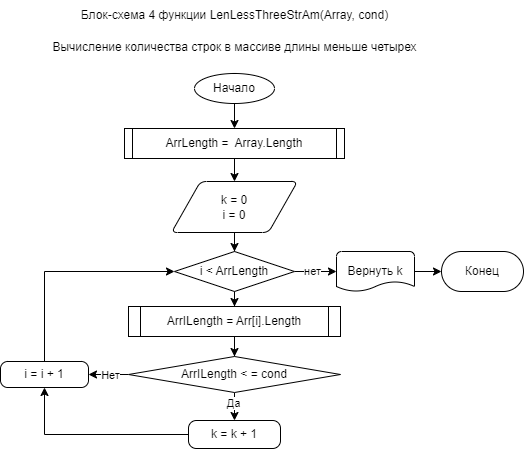
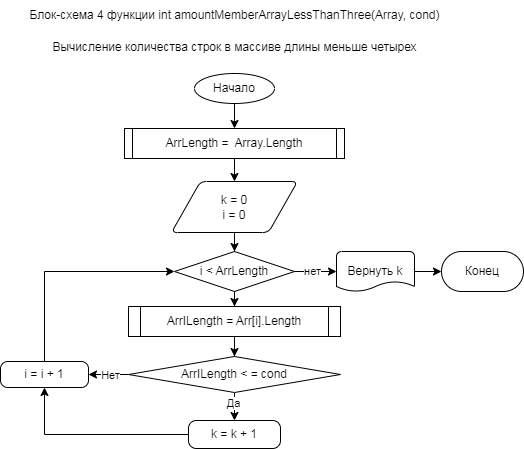
program were corrected1

diff --git a/Task1/Program.cs b/Task1/Program.cs
@@ -93,7 +93,7 @@ string[] arrayFiltred(string[] array, int cond, int k)
     }
 
     PrintArray(array); // Вывод искомого массива на печать
-    Console.WriteLine($"Строки массива, длина которых меньше черырех");
+    Console.WriteLine($"Вывод исходного массива, без строк длины > 3");
 
     PrintArray(arrayF); // Вывод искомого массива на печать
     Console.WriteLine($"Строки массива, длина которых меньше либо равна 3");

diff --git a/README.md b/README.md
@@ -1,22 +1,180 @@
 # Описание программы
-Программа представлена двумя блоками:
+## Программа представлена двумя блоками:
 1. Создается массив строк для анализа. Размер массива вводится с консоли. Минимальное и максимальное значение длины строки также вводится с консоли. Длина каждой строки определяется случайным образом с использованием генератора случайных чисел. Созданный массив строк выводится на консоль
 2. Методом перебора элементов массива строк определяются строки длины меньше 4 и записываются в новый массив. Новый массив выводится на консоль непосредственно под исследованным массивом.
 
-### Реализация Блока 1 осуществляется с использованием следующих функций
-1. Функция **anyNumberInput()** - Вводит строку с консоли (команда input()). Проверяет представлена ли вводимая строка числом. Осуществляет проверку, пока не будет введено корректное значение числа. Используется для введения с консоли как размера массива строк, так и минимального и максимального значения длин самих строк.
-2. Функция **inputArrayMaxStringSize()** - задает максимальное значение длины строки, и требует, чтобы вводимое с консоли число было не меньше минимального значения длины строк. Выход из функции осуществляется только после введения корректного значения максимальной длины строки. Данная функция использует вызов функции **anyNumberInput()** введения строки с консоли. 
-3. Функция **randomArrayBilding()** - Строит  массив строк заданного размера со случаной длиной строки в заданных пределах (для задания значений длины строки используется функция Random). Строки формируются из случайного набора символов множества символов строки **stringSource** = "1234567890qwertyuiop[]\asdfghjkl;'zxcvbnm,./!@#$%^&*()_+-=~`". Формирование массива строк непосредственно осуществляет функция **CreateDifferenceLengthStringArray(int arraySize**
-(= anyNumberInput())
-**, int minStringSize**
-(= anyNumberInput())
-**, int maxStringSize**
-(= inputArrayMaxStringSize())
-**, string stringSource)** в которую передаются параметры с консоли и из строки символов.
-4. На консоль выводиться созданный массив строк переменной длины
+## Функциональное описание программы:
+### `int AnyNumberInput()`: эта функция предлагает пользователю ввести натуральное число с консоли. Также она проверяет, представляет ли введенная строка число. Запрос повторяется до тех пор, пока не будет введено натуральное число.
+Разберем код шаг за шагом:
+1. `int AnyNumberInput()`: данная функция не принимает параметров и возвращает целое число.
 
-### Реализация Блока 2 осуществляется с использованием следующих функций
-1. Функция **amountMemberArrayLessThanThree(string[] array, int Criteria)** вычисляет количество строк в массиве array, длина которых меньше либо равна Criteria (Criteria < 4). Входные параметры: 1. array - анализируемый массив строк, 2. Criteria - значение, которое определяет какие строки будут отфильтрованы из первоначального массива (т.е. строки длины меньше либо равно Criteria)
-2. Функция **arrayFiltred(string[] array, int cond, int k)** создает пустой массив размерности, совпадающей с количеством строк k, длина которых меньше Criteria (Criteria < 4), и заполняет его этими строками. 
-Значение количества строк длины меньше Criteria (Criteria < 4) определяется функцией **amountMemberArrayLessThanThree()** (п.1) путем перебора в цикле элементов массива и определения их длины с последующим изменением значения счетчика количества элементов длины меньше Criteria.
-Для лучшей визуализации массив в котором заменены пропусками строки длины > Criteria выводится непосредственно под первоначальным. 
+2. ` while (true)`: инициирует бесконечный цикл, гарантируя, что функция будет продолжать запрашивать пользователя до тех пор, пока не будет предоставлен ввод натурального числа.
+
+3. Запрос на ввод данных пользователем:
+    - Внутри цикла функция выводит на консоль сообщение «Введите неотрицательное число» (Введите неотрицательное целое число), предлагая пользователю ввести число.
+
+4. Чтение пользовательского ввода:
+    - `string inputString = Console.ReadLine()!;`: эта строка считывает вводимые пользователем данные с консоли и сохраняет их в виде строки в переменной `inputString`. Оператор `!` используется для исключения значений NULL, поскольку `ReadLine()` может вернуть `NULL`, если достигнут конец входного потока.
+
+5. Проверка ввода:
+    - Функция перебирает каждый символ входной строки, используя цикл for (`for (int i = 0; i < inputString.Length; i++)`).
+
+    - Внутри цикла она проверяет каждый символ, чтобы убедиться, что он представляет цифру. Для выполнения этой проверки используются значения ASCII символов от 0 до 9.
+
+    - Если первый символ равен «0», это гарантирует, что это единственный символ в строке (что указывает на допустимый нулевой ввод).
+
+    - Если какой-либо символ не является цифрой (от «0» до «9») или если первый символ равен «0» и есть дополнительные символы, цикл прерывается, указывая на недопустимый ввод.
+
+    - Если цикл завершается без прерывания, то есть все символы являются допустимыми цифрами, он возвращает целочисленное представление входной строки с помощью Convert.ToInt32(inputString)`.
+
+6. Функция продолжает выполняться бесконечно, пока не будет предоставлен действительный вход.
+
+Таким образом, эта функция постоянно предлагает пользователю ввести неотрицательное целое число с консоли. Она проверяет ввод, чтобы гарантировать, что он состоит только из цифр, и возвращает целочисленное значение входной строки. Она выполняется бесконечно, пока не будет получен действительный ввод.
+
+### `string[] CreateDifferenceLengthStringArray(int arraySize, int minStringSize, int maxStringSize, string stringSource)`: эта функция генерирует массив строк заданного размера (`arraySize`), где каждая строка в массиве имеет случайную длину между ` minStringSize` и `maxStringSize`. Символы для построения этих строк взяты из строки stringSource.
+
+Эта функция генерирует случайный массив строк различной длины. Разберем код шаг за шагом:
+
+1. `string[] CreateDifferenceLengthStringArray(int arraySize, int minStringSize, int maxStringSize, string stringSource)`: эта функция принимает четыре параметра:
+    - `arraySize`: Желаемый размер создаваемого массива строк.
+    - `minStringSize`: минимальная длина каждой строки в массиве.
+     - `maxStringSize`: максимальная длина каждой строки в массиве.
+     - `stringSource`: строка, содержащая символы, из которых будут формироваться случайные строки.
+
+2. `string[] array = new string[arraySize];`: эта строка инициализирует новый массив строк с указанным размером `arraySize`.
+
+3. `Random rnd = new Random();`: здесь создается новый экземпляр класса `Random`. Этот экземпляр будет использоваться для генерации случайных чисел.
+
+4. `for (int i = 0; i < arraySize; i++)`: этот цикл перебирает каждый элемент массива строк.
+
+5. `int RandomStrinSize = Convert.ToInt32(rnd.Next(minStringSize, maxStringSize + 1));`: внутри цикла генерируется случайное целое значение между `minStringSize` и `maxStringSize  используя метод Next класса Random. Это случайное значение представляет длину строки, которая будет сгенерирована для текущего элемента массива.
+
+6. `for (int j = 0; j < RandomStrinSize; j++)`: внутри внешнего цикла инициируется другой цикл для генерации символов для строки.
+
+7. `int indexStringSource = Convert.ToInt32(rnd.Next(0, stringSource.Length));`: внутри внутреннего цикла генерируется случайный индекс для выбора символа из `stringSource`. Метод Next генерирует случайное целое число от 0 до длины stringSource -1.
+
+8. `array[i] += stringSource[indexStringSource];`: эта строка добавляет случайно выбранный символ из `stringSource` к текущей строке в массиве.
+
+9. После завершения выполнения обоих циклов для всех элементов массива функция возвращает результирующий строковый массив.
+
+Эта функция по существу создает массив строк, где каждая строка имеет случайную длину в пределах указанного диапазона (от minStringSize до maxStringSize) и создается путем случайного выбора символов из stringSource.
+
+## `void PrintArray(string[] array)`: эта функция выводит содержимое массива строк на консоль.
+
+### `int summberArrayLessThanThree(string[] array, int Criteria)`: данная функция вычисляет количество строк в заданном массиве, длина которых меньше или равна указанному критерию ("Criteria"). Она перебирает элементы массива и просчитывает соответствующие строки.
+Разберем код шаг за шагом:
+
+1. `int summberArrayLessThanThree(string[] array, int Criteria)`: эта функция принимает два параметра:
+ - `array`: массив строк.
+ - `Criteria`: целое число, представляющее максимально допустимую длину строки в массиве.
+
+2. `int k = 0;`: инициализирует переменную `k` нулем. `k` будет использоваться для подсчета количества строк в массиве, соответствующих критерию.
+
+3. `for (int i = 0; i < array.Length; i++)`: этот цикл перебирает каждый элемент входного массива `array`.
+
+4. `if (array[i].Length <= Criteria)`: внутри цикла проверяется, является ли длина текущей строки (`array[i].Length`) меньше или равна указанному `Criteria `.
+
+5. `k = k + 1;`: если длина текущей строки соответствует критериям, счетчик `k` увеличивается на единицу.
+
+6. После прохода по всем элементам массива функция возвращает конечное значение `k`, которое представляет собой количество строк в массиве, удовлетворяющих условию длины.
+
+Таким образом, эта функция обеспечивает простой способ определить количество строк в массиве, длина которых меньше или равна заданному критерию. Он перебирает каждую строку в массиве, проверяет ее длину и увеличивает счетчик, если длина соответствует указанным критериям. Наконец, она возвращает количество подходящих строк.
+
+### `string[] arrayFiltred(string[] array, int cond, int k)`: эта функция фильтрует входной массив на основе условия (`cond`) по длине строки. Он создает новый массив, содержащий только строки, соответствующие условию. Он также заменяет строки, не соответствующие условию, пробелами в исходном массиве. Затем он выводит на консоль исходный и отфильтрованный массивы.
+
+1. `string[] arrayFiltred(string[] array, int cond, int k)`: эта функция принимает три параметра:
+ - `array`: входной массив строк для фильтрации.
+ - `cond`: целое число, представляющее условие максимально допустимой длины строк в фильтруемом массиве.
+ - `k`: целое число, представляющее количество строк в отфильтрованном массиве (определенное предыдущим вычислением).
+
+2. `string[] arrayF = new string[k];`: эта строка инициализирует новый массив строк `arrayF` с размером `k`, который представляет количество строк во входном массиве, соответствующих условию длины.
+
+3. `if (k == 0)`: это условие проверяет, нет ли во входном массиве строк, удовлетворяющих условию длины (`k == 0`), указывая, что отфильтрованный массив будет пустым.
+
+4. Внутри блока `if` на консоль выводится сообщение о том, что в массиве нет строк с длиной меньше или равной заданному критерию. Затем возвращается пустой массив arrayF.
+
+5. `int j = 0;`: эта переменная `j` инициализируется нулем. Он будет использоваться в качестве индекса для заполнения отфильтрованного массива arrayF.
+
+6. Функция перебирает каждый элемент входного массива, используя цикл for.
+
+7. `if (array[i].Length <= cond)`: внутри цикла проверяется, меньше ли длина текущей строки (`array[i].Length`) заданному условию ( `cond`).
+
+8. Если условие выполнено, текущая строка добавляется в отфильтрованный массив ArrayF по индексу j, а индекс j увеличивается.
+
+9. Если условие не выполнено, текущая строка в исходном массиве заменяется строкой, содержащей пробелы той же длины. 
+
+10. После перебора всех элементов входного массива функция выводит на консоль трансформированный массив («array») и отфильтрованный массив («arrayF») с помощью функции PrintArray с аттрибутивными комментариями к этим массивам. 
+
+11. В качестве результата возвращается отфильтрованный массив arrayF.
+
+Таким образом, данная функция создает новый массив, содержащий только те строки из входного массива, которые удовлетворяют условию длины. Он также изменяет исходный массив, заменяя строки, не соответствующие условию, пробелами и выводит на консоль под значениями исходного нетрансформированного массива для лучшей визуализации того какие элементы удовлетворяют условию длины.
+
+### `int inputArrayMaxStringSize(int minStringSize)`: функция предлагает пользователю ввести максимально допустимую длину строк в массиве, задавая, что она должна быть больше или равна минимальному размеру строки.
+
+1. `int inputArrayMaxStringSize(int minStringSize)`: эта функция принимает один параметр:
+ - `minStringSize`: целое число, представляющее минимально допустимую длину строк в массиве.
+
+2. `int MaxStringSize = minStringSize - 1;`: эта строка инициализирует переменную `MaxStringSize` значением, меньшим минимального размера строки. Это гарантирует, что цикл while выполнится хотя бы один раз.
+
+3. Функция входит в цикл while, который продолжает выполняться до тех пор, пока минимальный размер строки (minStringSize) превышает рассчитанный максимальный размер строки (MaxStringSize). Этот цикл гарантирует, что пользователь вводит допустимый максимальный размер строки, который больше или равен минимальному размеру.
+
+4. Внутри цикла:
+ - Консоль предлагает пользователю ввести максимально допустимую длину строк в массиве.
+ - Функция AnyNumberInput() вызывается для получения пользовательского ввода. Предполагается, что эта функция обрабатывает пользовательский ввод и гарантирует, что он представляет допустимое целое число.
+ — Входное значение присваивается MaxStringSize.
+ - На консоль выводится сообщение, подтверждающее введенный пользователем номер.
+
+5. Как только пользователь ввел допустимый максимальный размер строки, соответствующий условию, функция выходит из цикла и возвращает максимальный размер строки.
+
+Таким образом, эта функция гарантирует, что пользователь предоставляет допустимую максимально допустимую длину строк в массиве, гарантируя, что она больше или равна указанному минимальному размеру. Она продолжает запрашивать пользователя до тех пор, пока не будет произведен ввод корректного значения.
+
+### `string[]randomArrayBilding()`: эта функция управляет генерацией массива случайных строк. Пользователь вводит размер массива, минимальный размер строки и максимальный размер строки. Затем он генерирует массив с помощью CreateDifferenceLengthStringArray, печатает его и возвращает.
+
+1. `string[] randomArrayBilding()`: эта функция не принимает параметров и возвращает массив строк.
+
+2. `string stringSource = "1234567890qwertyuiop[]\asdfghjkl;'zxcvbnm,./!@#$%^&*()_+-=~`";`: эта строка инициализирует строку `stringSource`, содержащую набор персонажи. Эти символы будут использоваться для генерации случайных строк для массива.
+
+3. Пользовательский ввод:
+ - Функция предлагает пользователю ввести размер массива строк, выведя на консоль «Введите размер строки массива».
+ - Затем он вызывает функцию AnyNumberInput(), чтобы получить введенные пользователем данные о размере массива. Эта функция гарантирует, что входные данные являются допустимым целым числом.
+ - Введенное значение сохраняется в переменной arraySize.
+
+4. Функция предлагает пользователю ввести минимально допустимую длину строк в массиве, выведя на консоль «Введите МИНИМАЛЬНО возможную длину строки».
+ - Он снова вызывает функцию AnyNumberInput(), чтобы получить ввод пользователя для минимального размера строки. Это гарантирует, что входные данные являются допустимым целым числом.
+ - Введенное значение сохраняется в переменной minStringSize.
+
+5. Определение максимального размера строки:
+ - Функция вызывает функцию inputArrayMaxStringSize, передавая минимальный размер строки в качестве аргумента, чтобы гарантировать, что пользователь предоставляет допустимый максимальный размер строки.
+ — Возвращаемый максимальный размер строки сохраняется в переменной maxStringSize.
+
+6. Генерация массива строк:
+ - Функция вызывает функцию CreateDifferenceLengthStringArray, передавая в качестве аргументов размер массива, минимальный размер строки, максимальный размер строки и stringSource. Эта функция генерирует случайный массив строк на основе предоставленных параметров.
+ — Полученный массив сохраняется в переменной stringArray.
+
+7. Печать исходного массива:
+ - На консоль выводится пустая строка для отступа.
+ — Функция PrintArray вызывается для печати исходного массива строк («stringArray») на консоль.
+
+8. Заключительные шаги:
+ — Функция печатает сообщение «Первоначальный массив строк», указывающее, что напечатанный массив является исходным массивом.
+ - Наконец, он возвращает сгенерированный массив строк («stringArray»).
+
+Таким образом, эта функция организует генерацию случайного массива строк на основе введенных пользователем данных о размере массива, минимальном размере строки и максимальном размере строки. Она выводит исходный массив на консоль и при необходимости возвращает его для дальнейшей обработки.
+
+### `string[] arrayFiltredBuilding(string[] stringArray, int cond)`: эта функция служит для фильтрации входного массива (`stringArray`) так, чтобы он содержал только строки, длина которых меньше или равна заданному условию (`cond` ). Он вычисляет количество подходящих строк, фильтрует массив с помощью arrayFiltred и возвращает отфильтрованный массив.
+
+Эта функция C#, ArrayFiltredBuilding, отвечает за создание отфильтрованного массива строк на основе заданного условия (cond). Давайте разберем код:
+
+1. `string[] arrayFiltredBuilding(string[] stringArray, int cond)`: эта функция принимает два параметра:
+ - `stringArray`: массив строк для фильтрации.
+ - `cond`: целое число, представляющее условие максимально допустимой длины строк в фильтруемом массиве.
+
+2. `int arrayFiltredStringAmount = summberArrayLessThanThree(stringArray, cond);`: эта строка вычисляет количество строк во входном массиве `stringArray`, длина которых меньше или равна указанному условию `cond`. Для выполнения этого вычисления он вызывает функцию amountMemberArrayLessThanThree.
+
+3. `string[] arrayF = arrayFiltred(stringArray, cond, arrayFiltredStringAmount);`: эта строка создает отфильтрованный массив строк (`arrayF`) путем вызова функции `arrayFiltred`. Он передает входной массив stringArray, условие cond и рассчитанное количество соответствующих строк arrayFiltredStringAmount в качестве аргументов функции arrayFiltred.
+
+4. Наконец, функция возвращает отфильтрованный массив arrayF.
+
+Таким образом, данная функция вычисляет количество соответствующих условиям строк, а затем использует эту информацию для создания и возврата отфильтрованного массива.
+
+### `main program`. В основной программе с помощью randomArrayBilding генерируется случайный массив строк, который затем фильтруется так, чтобы он содержал строки с длиной меньше или равной 3, с помощью функции ArrayFiltredBuilding. Отфильтрованный массив хранится в массиве ArrayFiltredSizeLessThree.

diff --git a/Readme_Block_Diagram.md b/Readme_Block_Diagram.md
@@ -1,45 +1,40 @@
-## Блок схема программы: 
+## Блок схема программы для решения задачи: 
 
 ### *Написать программу, которая из имеющегося массива строк формирует новый массив из строк, длина которых меньше, либо равна 3 символам. Первоначальный массив можно ввести с клавиатуры, либо задать на старте выполнения алгоритма. При решении не рекомендуется пользоваться коллекциями, лучше обойтись исключительно массивами*
 
-#### Описание блок-схемы задачи
-1. Формируем массив строк *М*<sub>0</sub> длины *l*, из строк переменной длины в диапазоне от *m* до *n*. Строки заполняются случайным образом символами заданной строки *S*<sub>basic</sub> длины *L*<sub>Sbasic</sub>
-- Задаем значения *l*, *m* и *n*.
-    - вводим с консоли значение *l* (переменная *number* в блок схеме 1).  
-    Проверяем, что строка содержит только цифры и начинается с цифры от 1 до 9. В противном случае требуем введения новой строки, состоящей из цифр (блок-схема 1);
-    - вводим с консоли значение *m* (проверяем аналогично *l*, см. выше);
-    - Вводим с консоли значение *n*. (блок-схема 2). Проверяем, что строка начинается с цифры от 1 до 9, содержит только цифры,  и что *n* (maxStringSize в блок-схеме 2) > *m* (minStringSize в блок-схеме 2). В противном случае требуем введения новой строки, состоящей из цифр(блок-схема 2). Программа, представленная в блок-схеме 1, вызывается в качестве функции в блок-схеме 2.
+## Решение представлено двумя блоками:
+1. Создается массив строк для анализа. Размер массива вводится с консоли. Минимальное и максимальное значение длины строки также вводится с консоли. Длина каждой строки задается случайным образом с использованием генератора случайных чисел. Созданный массив строк выводится на консоль
+2. Методом перебора элементов массива строк определяются строки длины меньше 4 и записываются в новый массив. Новый массив выводится на консоль непосредственно под исследованным массивом.
 
-<p align="center"><img width="300" height="600" src="picture1.png"> <img width="300" height="290" src="picture2.png"></p> 
+#### Блок-схемы задачи
+1.Блок-схема функции `anyNumberInput()`:
+функция предлагает пользователю ввести натуральное число с консоли. Также она проверяет, представляет ли введенная строка число. Запрос повторяется до тех пор, пока не будет введено натуральное число
+
+<p align="center"><img width="300" height="600" src="picture1.png"> </p> 
+
+2. Блок-схема функции `InputArrayMaxStringSize(minStringSize)`: функция предлагает пользователю ввести максимально допустимую длину строк в массиве, задавая, что она должна быть больше или равна минимальному размеру строки
+<p align="center"><img width="300" height="290" src="picture2.png"></p> 
+
+3. Блок-схема функции `string[] CreateDifferenceLengthStringArray(int ArSize, minSS, int maxSS, string strSource)`: эта функция генерирует массив строк заданного размера (`ArSize`), где каждая строка в массиве имеет случайную длину между ` minSS` и `maxSS`. Символы для построения этих строк взяты из строки `strSource`
+
+<p align="center"><img width="300" height="500" src="picture3.png"></p> 
+
+4. Блок-схема функции `string[]randomArrayBilding()`: функция управляет генерацией массива случайных строк. Пользователь вводит размер массива, минимальный размер строки и максимальный размер строки. Затем он генерирует массив с помощью CreateDifferenceLengthStringArray, печатает его и возвращает
+<p align="center"><img width="400" height="500" src="picture7.png"><img>
 
 
-- Создаем массив *М*<sub>0</sub> длины *l* (переменная *ArSize* в блок-схеме 3), состоящий из строк переменной длины из сегмента от *m* (переменная *minSS*) до *n* (переменная *maxSS*), сформированных из символов строки *S*<sub>basic</sub> (переменная *strSource*) длины *L*<sub>Sbasic</sub> (переменная *strSourceLength*):   
-"1234567890qwertyuiop[]\asdfghjll;'zxcvbnm,./!@#$%^&*()_+-=~`"  
-    - Проводим нижеследущие операции *l* раз для заполнения *l* строк массива *М*<sub>0</sub>:
-        - Используя генератор случайных чисел (встроенная функция *Random*) генерируем случайное число для длины строки, равное *L*<sub>var</sub> (переменная *RandomSS*), из сегмента от *m* до *n*.    
-        - Формируем элемент массива *М*<sub>0</sub> (переменная Array[i]) как строку длины *L*<sub>var</sub> путем заполнения ее случайными символами из строки *S*<sub>basic</sub>, выбирая их по индексу. Индексы символов получаем, используя генератор случайных целых положительных чисел в диапазоне от 0 до *L*<sub>Sbasic</sub> - 1.
+5. Блок-схема `int amountMemberArrayLessThanThree(string[] array, int Cond)`: данная функция вычисляет количество строк в заданном массиве, длина которых меньше или равна указанному критерию ("cond"). Она перебирает элементы массива и просчитывает соответствующие строки
+<p align="center"><img width="400" height="400" src="picture4.png"> <img width="400"</p>
+
+6. Блок-схема функции `string[] arrayFiltred(string[] array, int cond, int k)`: эта функция фильтрует входной массив на основе условия (`< cond`) по длине строки. Он создает новый массив, содержащий только строки, соответствующие условию. Он также заменяет строки, не соответствующие условию, пробелами в исходном массиве. Затем он выводит на консоль исходный и отфильтрованный массивы.
+<p align="center"><img width="600" height="500" src="picture5.png"> <img width="400"</p>
+
+7. Блок-схема функции `void PrintArray(string[] array)`: эта функция выводит содержимое массива строк на консоль
+<p align="center"><img width="250" height="300" src="picture6.png">"</p>
 
 
-<p align="center"><img width="300" height="500" src="picture3.png"> <img width="300" height="500" src="picture7.png"><img width="300"</p> 
+8. Блок-схема функции `string[] arrayFiltredBuilding(string[] stringArray, int cond)`: эта функция служит для фильтрации входного массива (`stringArray`) так, чтобы он содержал только строки, длина которых меньше или равна заданному условию (`<= cond` ). Он вычисляет количество подходящих строк, фильтрует массив с помощью arrayFiltred и возвращает отфильтрованный массив.
+<p align="center"><img width="400" height="350" src="picture8.png"> </p>
 
-Функции, представленные на блок-схемах 1-3, 6 вызываются из функции, представленной на блок-схеме 7, входные параметры которой задаются с консоли. Эта функция формирует первоначальный массив и выводит его на консоль.
-
-2. Формируем новый строковый массив *М*<sub>F</sub> из строк длины меньше четырех путем выбора соответствующих элементов массива *М*<sub>0</sub>
-- Находим количество строк *k* массива *М*<sub>0</sub>, длина которых меньше четырех (Блок-схема 4)
-    - Последовательно проверяем длину каждого из *l* ( *ArrLength*) элементов *М*<sub>0</sub>, увеличивая значение *k* счетчика в случае, если длина (*ArrILength*) элемента  массива *М*<sub>0</sub> меньше четырех.
-    <p align="center"><img width="400" height="400" src="picture4.png"> <img width="400"</p>
-
-- Формируем массив *М*<sub>F</sub> длины *k* и заполняем строками длины меньше четырех из массива *М*<sub>0</sub>
-    - Формируем строковый массив *М*<sub>F</sub> длины *k*
-    - Последовательно увеличивая индекс от 0 до *l*, перебираем элементы *М*<sub>0</sub> и последовательно присваиваем их значения элементам массива *М*<sub>F</sub>, если длина этих элементов меньше четырех.    Количество таких элементов равно *k*
-    - Выводим на консоль массив *М*<sub>F</sub>
-
-    <p align="center"><img width="400" height="400" src="picture5.png"> <img width="300" height="300" src="picture6.png"> <img width="400"</p>
-
-    Формирование массива *M*<sub>F</sub> завершает решение задачи
-   
-    Функции, представленные на блок-схемах 4-5 вызываются из функции представленной на блок-схеме 8
- <p align="center"><img width="500" height="400" src="picture8.png"> <img width="400"</p>
-
- 3. Основная программа (на блок-схеме 9) представлена  вызовами функции формирования массива строк случайной длины (блок схема 7) и функции формирования из этого массива другого массива, содержащего строки длины не более 3 (блок-схема 8). В качестве выхода формируется массив строк размер которых не превышает 3-х, а также выводятся на консоли оба массивов для визуального анализа
- <p align="center"><img width="500" height="300" src="picture9.png"> <img width="400"</p>
+9. Блок-схема `main program` В основной программе с помощью randomArrayBilding генерируется случайный массив строк, который затем фильтруется так, чтобы он содержал строки с длиной меньше или равной 3, с помощью функции ArrayFiltredBuilding. Отфильтрованный массив хранится в массиве ArrayFiltredSizeLessThree
+<p align="center"><img width="500" height="300" src="picture9.png"> </p>
